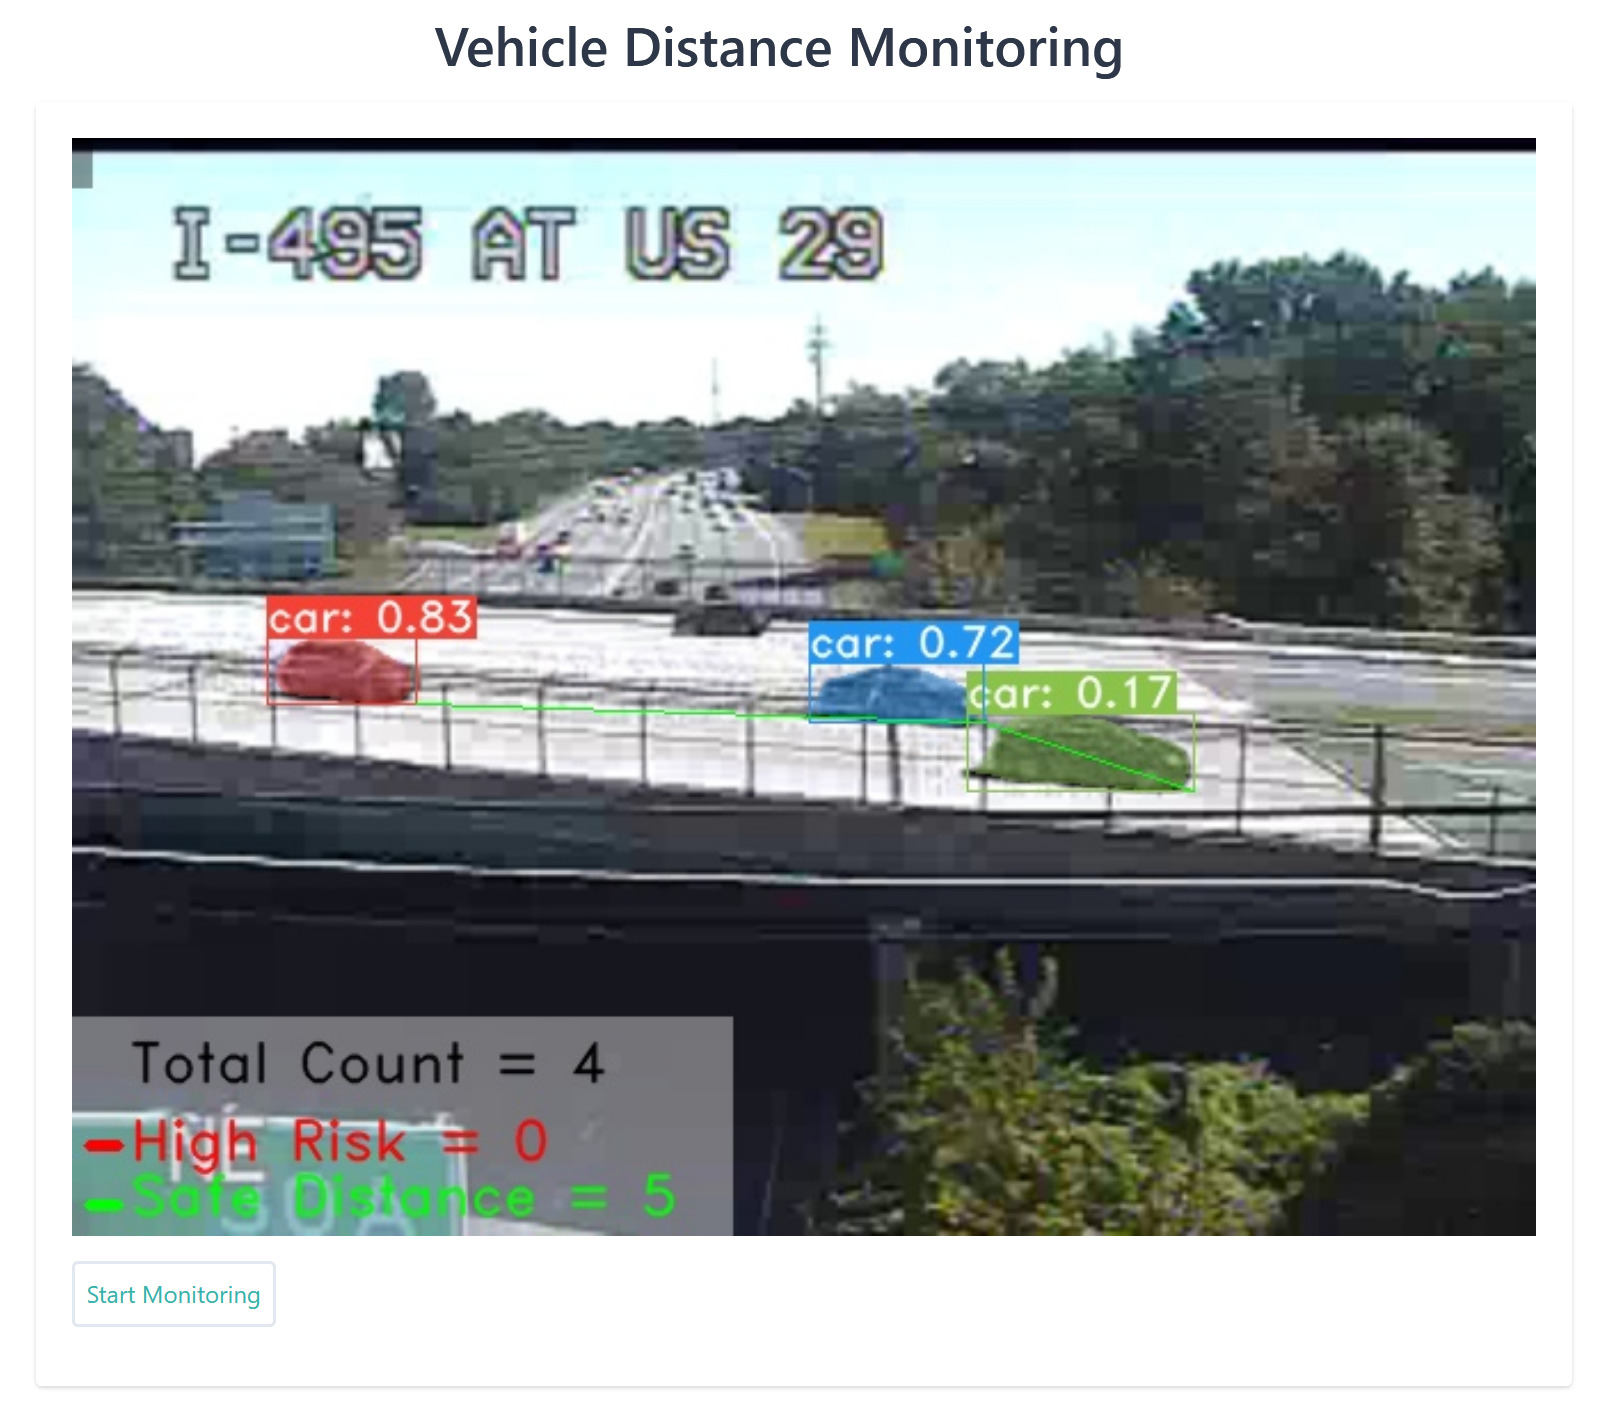
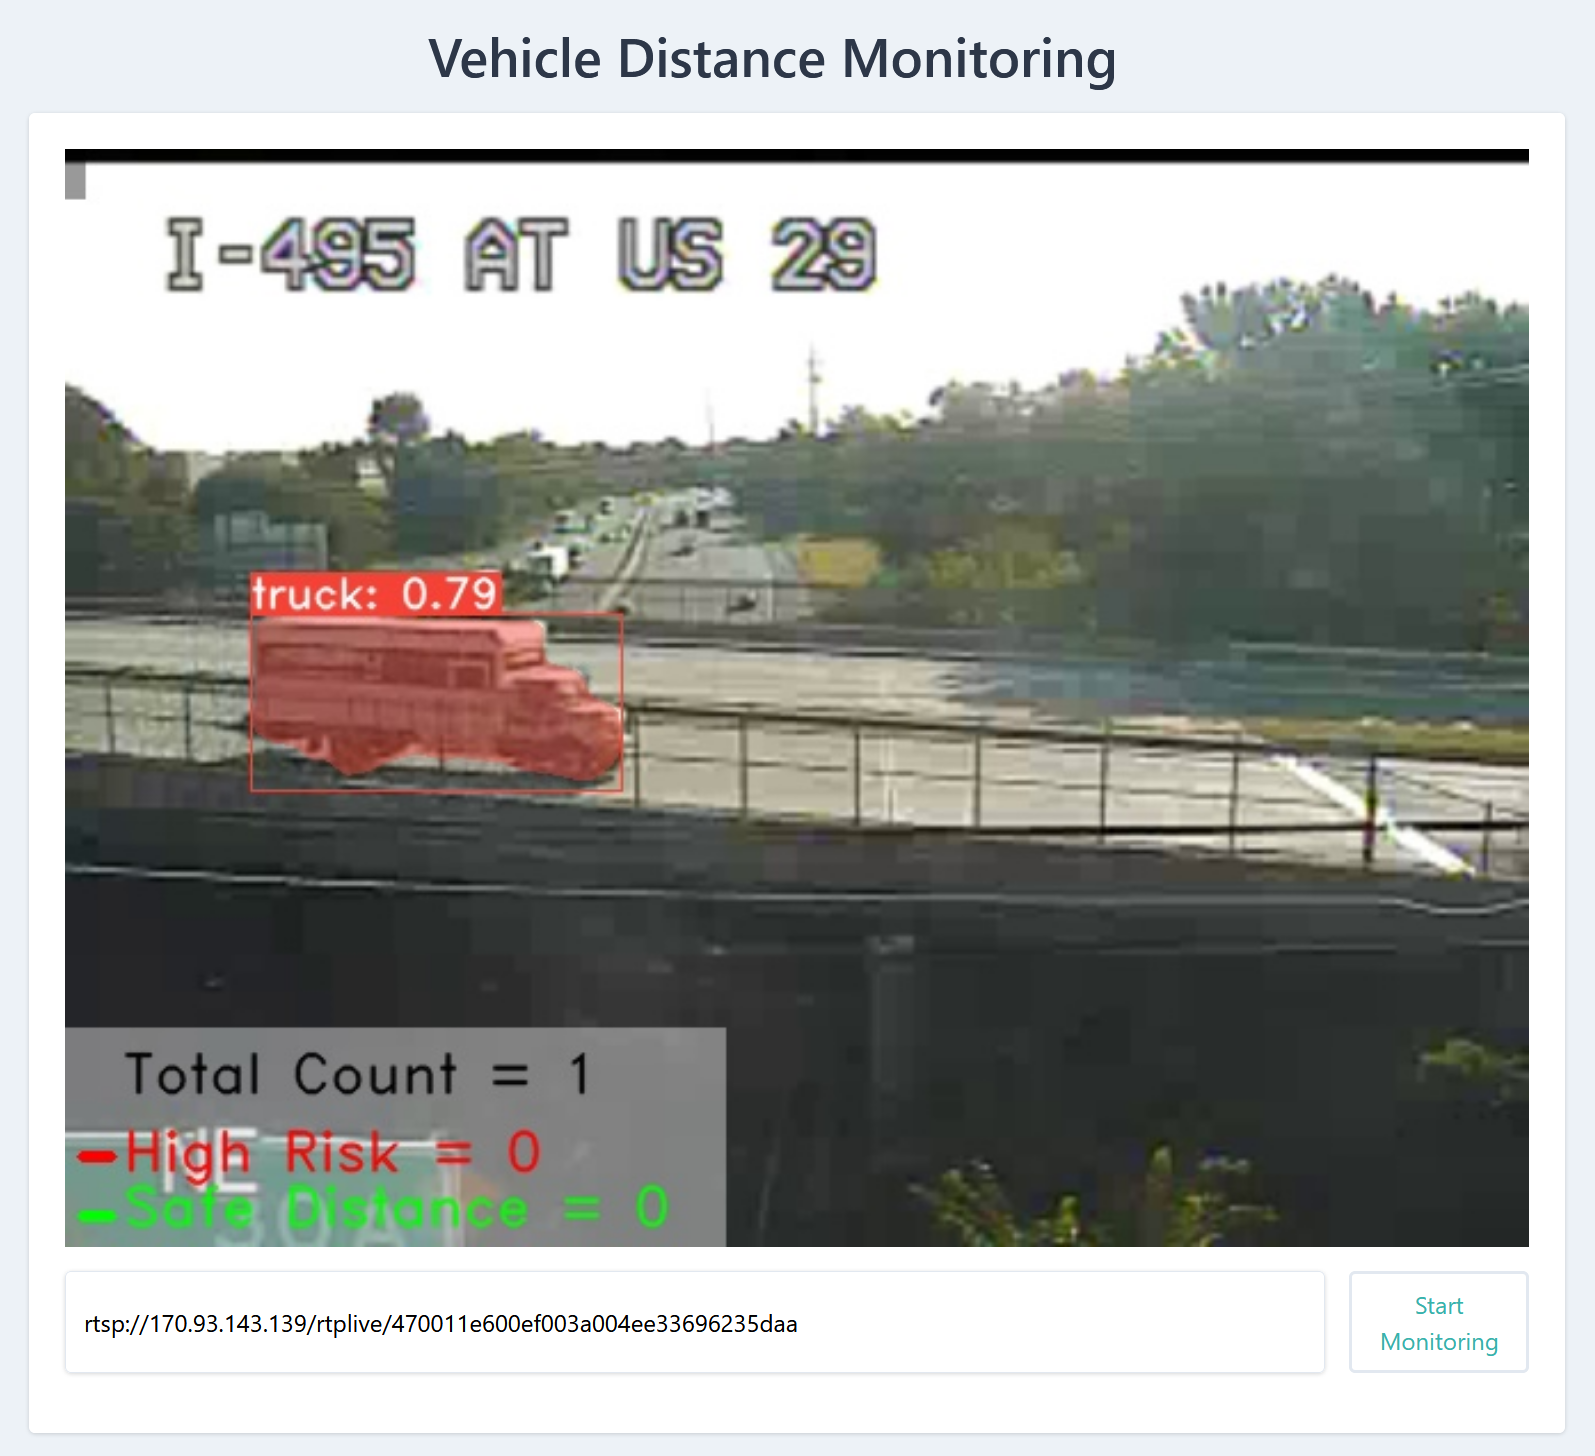
updated README.md

diff --git a/README.md b/README.md
@@ -90,6 +90,8 @@ This starts the webserver and the webapp. With the standard configuration the we
 
 ![Webapp UI](./data/WebappUI.png)
 
+You can specify a path (URL) for HTTPS and RTSP streams or just a digit for one of your webcam devices.
+
 ### Running from CLI
 
 Alternatively, you can run the inference from your terminal with the following command:
